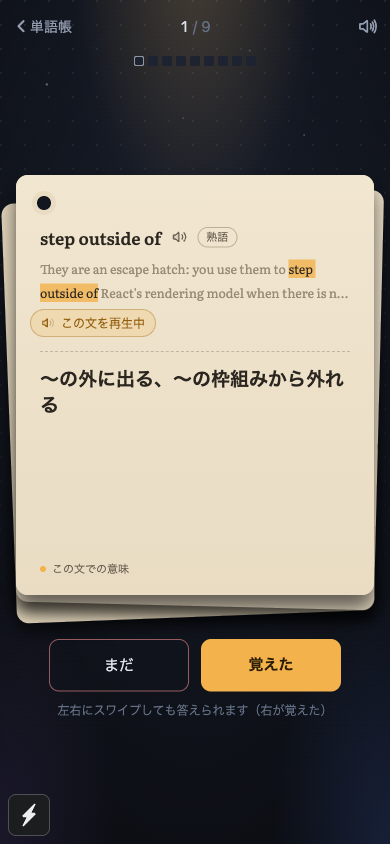
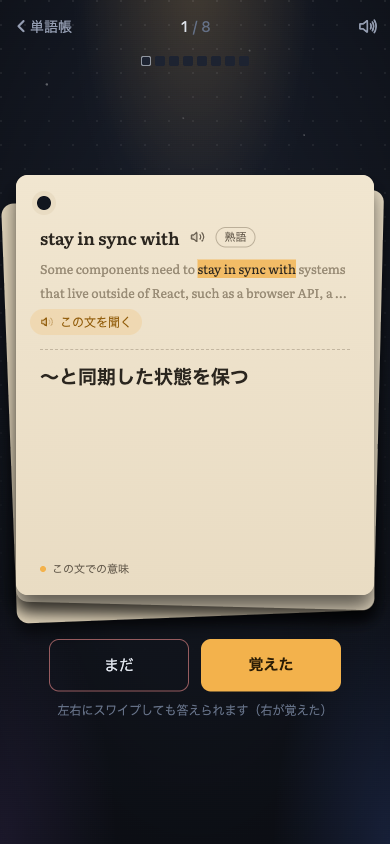
fix(vocabulary-pronunciation): pr-review の指摘を直す（mobile）
- カードのカスタムアクションの name を日本語にする（新アーキテクチャの iOS は VoiceOver に label ではなく name を読ませるため）
- 1 文は区間の終わりで止める（余白を足さない。単語だけ鳴り終わってから表示を戻す余白を足す）
- 鳴り始めの判定に、再生位置が区間の始めより進んだかを足す（web の expo-audio は play() の時点で playing を true にするため）
- 1 文のボタンの文字を再生中も「この文を聞く」に固定し、再生中の縁は単語のボタンだけにする（UI 設計）
- 名前を直す（startLoaded → playFromSegmentStart、finishAfter → scheduleStop）。props・キー・styles の並びを直す
- 読み上げが requestAudioMode を待たない理由を書き、README・step5 を実装に合わせる（TalkBack の確認の項目を足す）

diff --git a/apps/mobile/src/features/vocabulary/use-pronunciation.ts b/apps/mobile/src/features/vocabulary/use-pronunciation.ts
@@ -37,9 +37,9 @@ type ActivePlayback = {
 }
 
 /**
- * 終わりに足す余白。1 文は区間の終わりが次の単語の始まりなので最後の音が切れないように、単語は鳴り終わってから表示を戻すように
+ * 単語の終わりに足す余白（鳴り終わってから表示を戻す）。1 文は区間の終わりが次の単語の始まりで文の後の間を含むので、余白は足さない
  */
-const TAIL_MS = 150
+const WORD_TAIL_MS = 150
 
 /**
  * replace してから・play() してから、この時間たっても読み込めない・鳴り始めなければ失敗として止める
@@ -61,8 +61,9 @@ const STATUS_UPDATE_INTERVAL_MS = 100
  * カードの発音の再生（vocabulary-pronunciation README「再生の実装」）。1 回分の画面で 1 つだけ持ち、expo-audio の player を 1 つ使い回す。
  *
  * 押したら音声のモード（消音モードでも鳴らし、ほかのアプリの音楽は小さくする）を待って replace し、読み込めたら区間の始めに合わせて鳴らす。
- * 止めるのはタイマー。鳴り始めた（player.playing になった）ときの再生位置から、区間の終わり（単語は mp3 の終わり）までの時間に余白を足して置く
- * （play() の時点から数えると、seek した先の読み込みが遅いときに文の最後が切れるため）。
+ * 止めるのはタイマー。鳴り始めた（player.playing で、再生位置が区間の始めより進んだ）ときの再生位置から、区間の終わり（単語は mp3 の終わり + 余白）
+ * までの時間で置く（play() の時点から数えると、seek した先の読み込みが遅いときに文の最後が切れるため。web の expo-audio は play() の時点で
+ * player.playing を true にするので、再生位置が進んだかでも確かめる。読み上げと同じ）。
  * 終わりの通知（didJustFinish）は前の再生のものが遅れて届くことがあるので使わない。
  *
  * expo-audio は、アプリが背面に移ったとき・一時的に音声を取られたときに止めた player を、前面に戻ったときに鳴らし直す。
@@ -102,7 +103,10 @@ export function usePronunciation(): Pronunciation {
     pausePlayer()
   }, [pausePlayer])
 
-  const finishAfter = (token: symbol, ms: number) => {
+  /**
+   * ms 後に、同じ再生のままなら止める（読み込み・鳴り始めの見張りと、区間の終わりに使う）
+   */
+  const scheduleStop = (token: symbol, ms: number) => {
     clearTimer()
     timerRef.current = setTimeout(() => {
       if (activeRef.current?.token === token) stop()
@@ -110,15 +114,15 @@ export function usePronunciation(): Pronunciation {
   }
 
   /**
-   * 読み込めたら、区間の始めに合わせて鳴らす。鳴り始めるまでは失敗の見張りのタイマーだけを置く
+   * 読み込めたら、区間の始めに seek して鳴らす。鳴り始めるまでは失敗の見張りのタイマーだけを置く
    */
-  const startLoaded = (active: ActivePlayback) => {
+  const playFromSegmentStart = (active: ActivePlayback) => {
     active.phase = "starting"
     const startMs = active.source.startMs ?? 0
     const begin = () => {
       if (activeRef.current?.token !== active.token) return
       player.play()
-      finishAfter(active.token, LOAD_TIMEOUT_MS)
+      scheduleStop(active.token, LOAD_TIMEOUT_MS)
     }
     if (startMs === 0) {
       begin()
@@ -139,8 +143,9 @@ export function usePronunciation(): Pronunciation {
     active.phase = "playing"
     const positionMs = player.currentTime * 1000
     const durationMs = player.duration * 1000
-    const endMs = active.source.endMs ?? (Number.isFinite(durationMs) && durationMs > 0 ? durationMs : positionMs + WORD_FALLBACK_MS)
-    finishAfter(active.token, Math.max(endMs - positionMs, 0) + TAIL_MS)
+    const endMs = active.source.endMs
+      ?? (Number.isFinite(durationMs) && durationMs > 0 ? durationMs : positionMs + WORD_FALLBACK_MS) + WORD_TAIL_MS
+    scheduleStop(active.token, Math.max(endMs - positionMs, 0))
   }
 
   /**
@@ -152,8 +157,8 @@ export function usePronunciation(): Pronunciation {
       if (status.playing) pausePlayer()
       return
     }
-    if (active.phase === "loading" && player.isLoaded) startLoaded(active)
-    else if (active.phase === "starting" && player.playing) scheduleEnd(active)
+    if (active.phase === "loading" && player.isLoaded) playFromSegmentStart(active)
+    else if (active.phase === "starting" && player.playing && player.currentTime * 1000 > (active.source.startMs ?? 0)) scheduleEnd(active)
   })
 
   const toggle = (target: PronunciationTarget, source: PronunciationSource) => {
@@ -172,7 +177,7 @@ export function usePronunciation(): Pronunciation {
       if (activeRef.current?.token !== active.token) return
       active.phase = "loading"
       player.replace({ uri: source.url })
-      finishAfter(active.token, LOAD_TIMEOUT_MS)
+      scheduleStop(active.token, LOAD_TIMEOUT_MS)
     })
   }
 

diff --git a/apps/mobile/src/components/features/vocabulary/PronunciationButtons.tsx b/apps/mobile/src/components/features/vocabulary/PronunciationButtons.tsx
@@ -12,8 +12,8 @@ import { PAPER_MAX_FONT_SCALE } from "./SentenceText"
  * カードに渡す発音の操作。鳴らせるか（音声があるか）はカードの pronunciation から決める
  */
 export type PronunciationControls = {
-  playing: PronunciationTarget | null
   onToggle: (target: PronunciationTarget) => void
+  playing: PronunciationTarget | null
 }
 
 /**
@@ -112,13 +112,13 @@ export function WordSoundButton({
       accessibilityRole="button"
       accessibilityState={{ disabled: !isReady, selected: isPlaying }}
       hitSlop={(MIN_TOUCH_SIZE - dimension) / 2}
-      onPress={isReady ? () => controls.onToggle("word") : undefined}
       style={({ pressed }) => [
         styles.wordButton,
         { borderRadius: dimension / 2, height: dimension, width: dimension },
-        isPlaying && styles.playing,
+        isPlaying && styles.wordButtonPlaying,
         pressed && isReady && !isPlaying && styles.pressed,
       ]}
+      onPress={isReady ? () => controls.onToggle("word") : undefined}
     >
       <SpeakerIcon color={color} isPlaying={isPlaying} size={size === "lg" ? 20 : 16} />
     </Pressable>
@@ -126,7 +126,8 @@ export function WordSoundButton({
 }
 
 /**
- * 1 文のすぐ下の、1 文の読み上げのボタン（1 文の音声があるときだけ置く）。表は中央、裏は左寄せで三角を 1 文の頭にそろえる
+ * 1 文のすぐ下の、1 文の読み上げのボタン（1 文の音声があるときだけ置く）。表は中央、裏は左寄せで三角を 1 文の頭にそろえる。
+ * 文字は再生中も「この文を聞く」のまま（見えている文字と読み上げの名前をそろえる）。再生中は琥珀の地・動く波・selected で示す
  */
 export function SentenceSoundButton({ align, controls }: { align: "center" | "start", controls: PronunciationControls }) {
   const isPlaying = controls.playing === "sentence"
@@ -136,34 +137,29 @@ export function SentenceSoundButton({ align, controls }: { align: "center" | "st
       accessibilityRole="button"
       accessibilityState={{ selected: isPlaying }}
       hitSlop={8}
-      onPress={() => controls.onToggle("sentence")}
       style={({ pressed }) => [
         styles.sentenceButton,
         align === "center" ? styles.sentenceButtonCenter : styles.sentenceButtonStart,
-        isPlaying && styles.playing,
+        isPlaying && styles.sentenceButtonPlaying,
         pressed && !isPlaying && styles.pressed,
       ]}
+      onPress={() => controls.onToggle("sentence")}
     >
       {isPlaying ? (
-        <SpeakerIcon color={THEME_COLORS.inkAmber} isPlaying size={14} />
+        <SpeakerIcon isPlaying color={THEME_COLORS.inkAmber} size={14} />
       ) : (
         <Svg height={11} viewBox="0 0 12 12" width={11}>
           <Path d="M3 1.8v8.4L10 6 3 1.8Z" fill={THEME_COLORS.inkMuted} />
         </Svg>
       )}
       <Text maxFontSizeMultiplier={PAPER_MAX_FONT_SCALE} style={[styles.sentenceLabel, isPlaying && styles.sentenceLabelPlaying]}>
-        {isPlaying ? "この文を再生中" : "この文を聞く"}
+        この文を聞く
       </Text>
     </Pressable>
   )
 }
 
 const styles = StyleSheet.create({
-  playing: {
-    backgroundColor: "rgba(243, 178, 76, 0.2)",
-    borderColor: "rgba(148, 96, 15, 0.35)",
-    borderWidth: StyleSheet.hairlineWidth,
-  },
   pressed: {
     backgroundColor: PRESSED_BACKGROUND,
   },
@@ -177,6 +173,12 @@ const styles = StyleSheet.create({
   },
   sentenceButtonCenter: {
     alignSelf: "center",
+  },
+  /**
+   * 1 文の再生中は琥珀の地だけ（縁は単語のボタンだけ。UI 設計）
+   */
+  sentenceButtonPlaying: {
+    backgroundColor: "rgba(243, 178, 76, 0.2)",
   },
   /**
    * 左の余白の分だけ左へずらし、三角を 1 文の頭にそろえる
@@ -195,5 +197,10 @@ const styles = StyleSheet.create({
   wordButton: {
     alignItems: "center",
     justifyContent: "center",
+  },
+  wordButtonPlaying: {
+    backgroundColor: "rgba(243, 178, 76, 0.2)",
+    borderColor: "rgba(148, 96, 15, 0.35)",
+    borderWidth: StyleSheet.hairlineWidth,
   },
 })

diff --git a/apps/mobile/src/components/features/vocabulary/FlashCard.tsx b/apps/mobile/src/components/features/vocabulary/FlashCard.tsx
@@ -48,6 +48,13 @@ const CARD_MAX_HEIGHT = 420
 const CARD_HEIGHT_RATIO = 0.55
 
 /**
+ * カードの読み上げのカスタムアクション（発音を鳴らす）。新アーキテクチャ（Fabric）の iOS は VoiceOver に label ではなく name を読ませるので、
+ * name も日本語にする（Android の TalkBack は label を読む）
+ */
+const PLAY_WORD_ACTION = "発音を聞く"
+const PLAY_SENTENCE_ACTION = "この文を聞く"
+
+/**
  * 2 枚目から、カードが出たときに読み上げのフォーカスを移すまでの時間（作り直した画面の要素が読み上げに登録されるのを待つ）
  */
 const FOCUS_DELAY_MS = 100
@@ -138,13 +145,13 @@ export function FlashCard({
       pronunciation.toggle("sentence", { endMs: sentenceAudio.end_ms, startMs: sentenceAudio.start_ms, url: sentenceAudio.url })
     }
   }
-  const pronunciationControls: PronunciationControls = { playing: pronunciation.playing, onToggle: togglePronunciation }
+  const pronunciationControls: PronunciationControls = { onToggle: togglePronunciation, playing: pronunciation.playing }
   /**
    * 読み上げのカスタムアクション。音声が無いもの（単語が準備中・1 文の音声が無い）は出さない
    */
   const accessibilityActions = [
-    ...(wordUrl ? [{ label: "発音を聞く", name: "playWord" }] : []),
-    ...(card.sentence && sentenceAudio ? [{ label: "この文を聞く", name: "playSentence" }] : []),
+    ...(wordUrl ? [{ label: PLAY_WORD_ACTION, name: PLAY_WORD_ACTION }] : []),
+    ...(card.sentence && sentenceAudio ? [{ label: PLAY_SENTENCE_ACTION, name: PLAY_SENTENCE_ACTION }] : []),
   ]
 
   const answer = (grade: Grade) => {
@@ -271,8 +278,8 @@ export function FlashCard({
               accessibilityLiveRegion="polite"
               accessibilityRole={Platform.OS === "web" ? undefined : "button"}
               onAccessibilityAction={(event) => {
-                if (event.nativeEvent.actionName === "playWord") togglePronunciation("word")
-                if (event.nativeEvent.actionName === "playSentence") togglePronunciation("sentence")
+                if (event.nativeEvent.actionName === PLAY_WORD_ACTION) togglePronunciation("word")
+                if (event.nativeEvent.actionName === PLAY_SENTENCE_ACTION) togglePronunciation("sentence")
               }}
               onPress={flip}
             >

diff --git a/apps/mobile/src/features/read-aloud/use-read-aloud.ts b/apps/mobile/src/features/read-aloud/use-read-aloud.ts
@@ -433,7 +433,8 @@ const createReadAloudController = (player: AudioPlayer, events: ControllerEvents
       isPauseRequested = false
       /**
        * 消音モードでも鳴らし、ほかのアプリの音楽は止める。再生を始めるたびに頼む（画面を開いただけではほかのアプリの音を止めない。
-       * 単語帳のめくる音・発音でモードが変わっていても戻す。同じモードなら何もしない）。失敗しても再生は続ける
+       * 単語帳のめくる音・発音でモードが変わっていても戻す。同じモードなら何もしない）。失敗しても再生は続ける。
+       * 設定は待たない（replace したパートの mp3 を読み込む間に終わる。待つとパートの開始と状態の更新の順が変わる）
        */
       void requestAudioMode("readAloud")
       startPart(input.blockIndex, 0, input.mode, { shouldPlay: true })

diff --git a/apps/mobile/src/libs/audio-mode.ts b/apps/mobile/src/libs/audio-mode.ts
@@ -30,6 +30,7 @@ let current: { kind: AudioModeKind, ready: Promise<void> } | null = null
  * （それぞれが setAudioModeAsync を呼ぶと、後から呼んだ方のモードが残って取り違える。発音を聞いた後のめくる音が消音モードでも鳴る、など）。
  *
  * 鳴らす前に呼び、返る Promise を待ってから play する（setAudioModeAsync は後から効くので、待たないと前のモードで鳴る）。
+ * 読み上げだけは待たない（パートの mp3 を読み込む間に設定が終わる。use-read-aloud.ts）。
  * 失敗しても再生は続ける（warn だけ）。web 表示では setAudioModeAsync が何もしない
  */
 export const requestAudioMode = async (kind: AudioModeKind): Promise<void> => {

diff --git a/apps/mobile/src/components/features/vocabulary/PaperCard.tsx b/apps/mobile/src/components/features/vocabulary/PaperCard.tsx
@@ -351,15 +351,15 @@ const styles = StyleSheet.create({
     gap: 8,
     justifyContent: "center",
   },
+  surfaceSmall: {
+    color: THEME_COLORS.ink,
+    fontFamily: THEME_FONTS.readingSemiBold,
+    fontSize: 17,
+  },
   /**
    * 発音のボタン（36）と同じ幅。語句を中央に保つ
    */
   surfaceSpacer: {
     width: 36,
-  },
-  surfaceSmall: {
-    color: THEME_COLORS.ink,
-    fontFamily: THEME_FONTS.readingSemiBold,
-    fontSize: 17,
   },
 })

diff --git a/docs/spec/vocabulary-pronunciation/README.md b/docs/spec/vocabulary-pronunciation/README.md
@@ -172,7 +172,7 @@ cron に `generate:word-audio` タスクを足す。EventBridge Scheduler で **
 
 - 再生の状態（再生中のもの・止める）は 1 つの hook（`usePronunciation`）にまとめ、1 回分の画面で 1 つだけ持つ。カードが替わる（答える）・めくる・画面を離れるときに止める
 - 止めた後に、ブラウザのメディアキー・ロック画面（web）や OS（mobile。アプリが背面から戻ったとき）が鳴らし直したら、すぐ止め直す（表示は止まったまま段落の続きが鳴らないように）
-- mobile は、めくる効果音（ambient：消音モードでは鳴らさない）・発音（上のモード）・読み上げ（`doNotMix`・消音モードでも鳴らす）で音声のモードが違う。今はそれぞれが `setAudioModeAsync` を呼ぶので、後から呼んだ方のモードが残って取り違える（発音を聞いた後のめくる音が消音モードでも鳴る、など）。`src/libs/audio-mode.ts` に「今のモード」を 1 か所で持つ `requestAudioMode(kind)` を作り、3 つとも鳴らす前にこれを待つ（モードが同じなら何もしない）
+- mobile は、めくる効果音（ambient：消音モードでは鳴らさない）・発音（上のモード）・読み上げ（`doNotMix`・消音モードでも鳴らす）で音声のモードが違う。それぞれが `setAudioModeAsync` を呼ぶと、後から呼んだ方のモードが残って取り違える（発音を聞いた後のめくる音が消音モードでも鳴る、など）ので、`src/libs/audio-mode.ts` の `requestAudioMode(kind)` で「今のモード」を 1 か所で持つ（モードが同じなら何もしない）。めくる効果音と発音は、これを待ってから鳴らす。読み上げは再生を始める・再開するたびに頼み、待たない（パートの mp3 を読み込む間に設定が終わるため。以前からの読み上げの動きのまま）
 - web はモードの切り替えが無い（ブラウザに消音モードの扱いが無い）
 
 ### 失敗時の扱い
